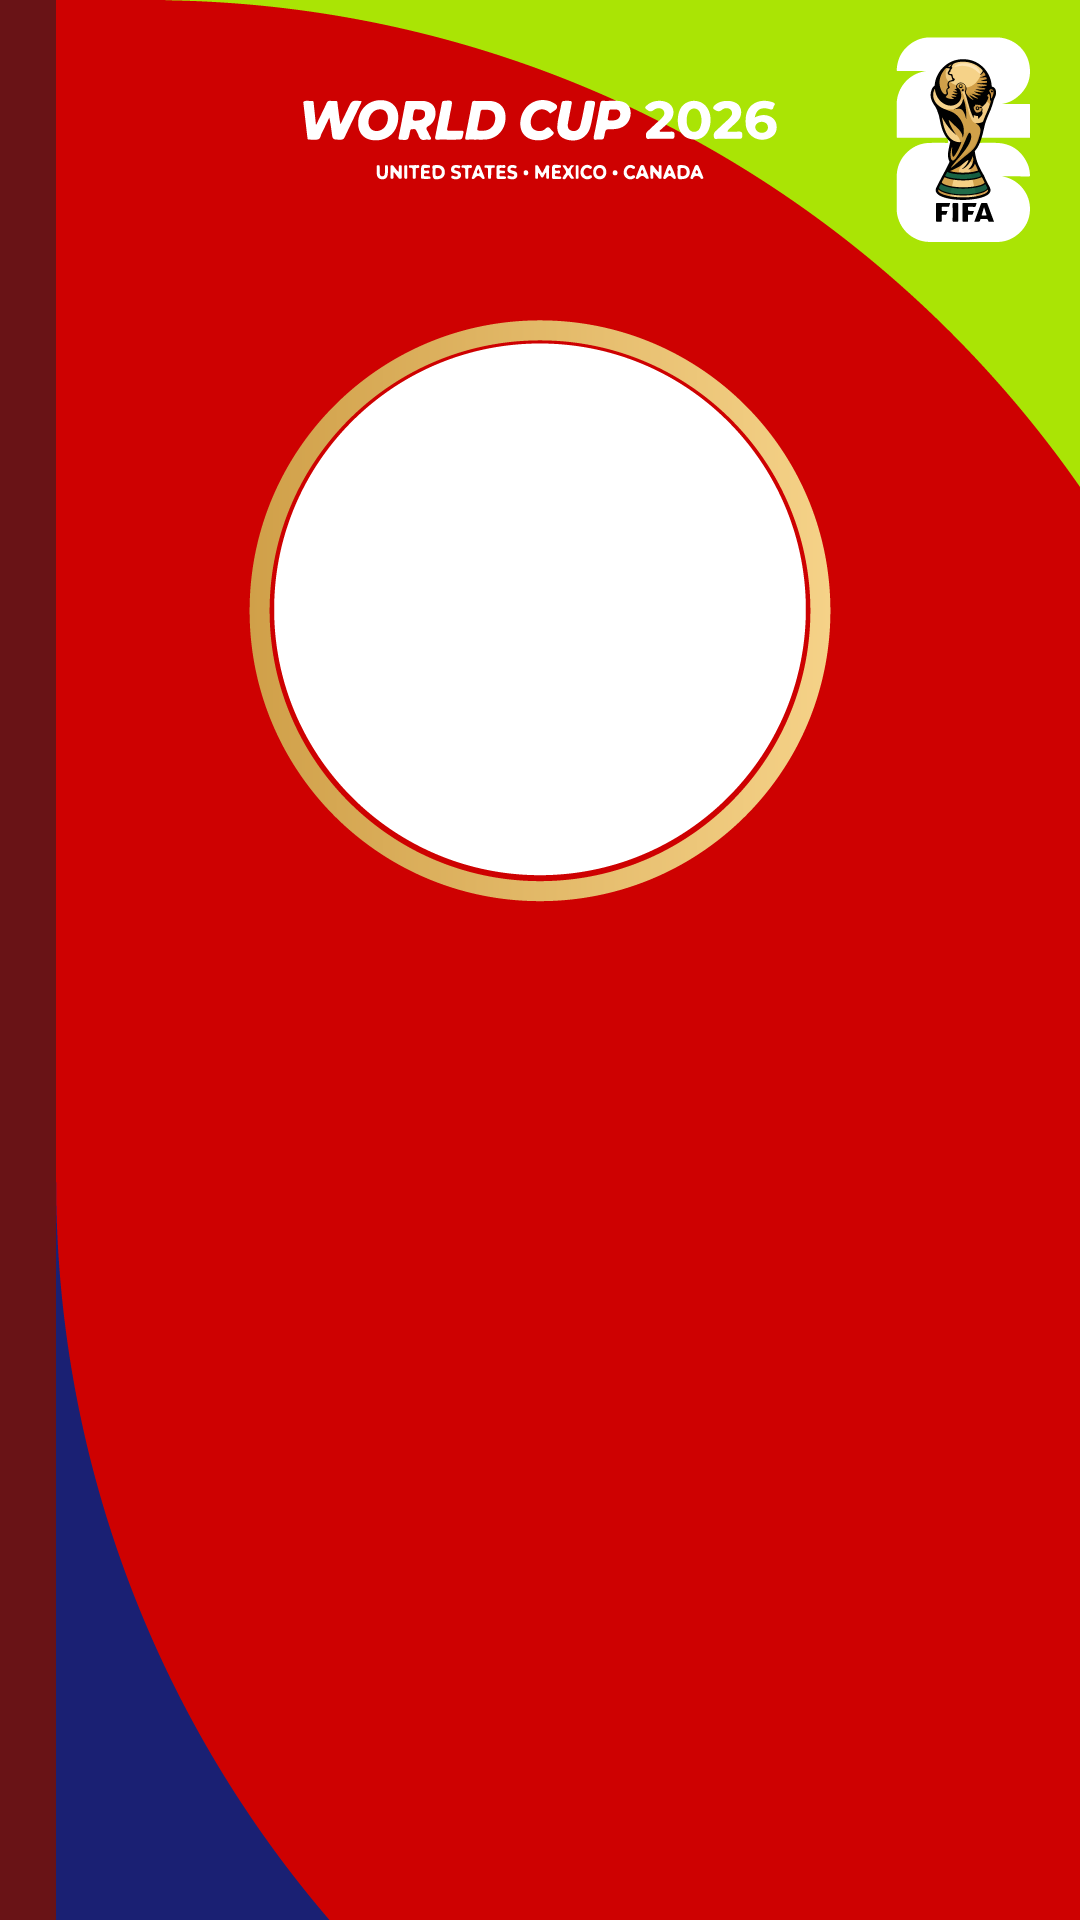
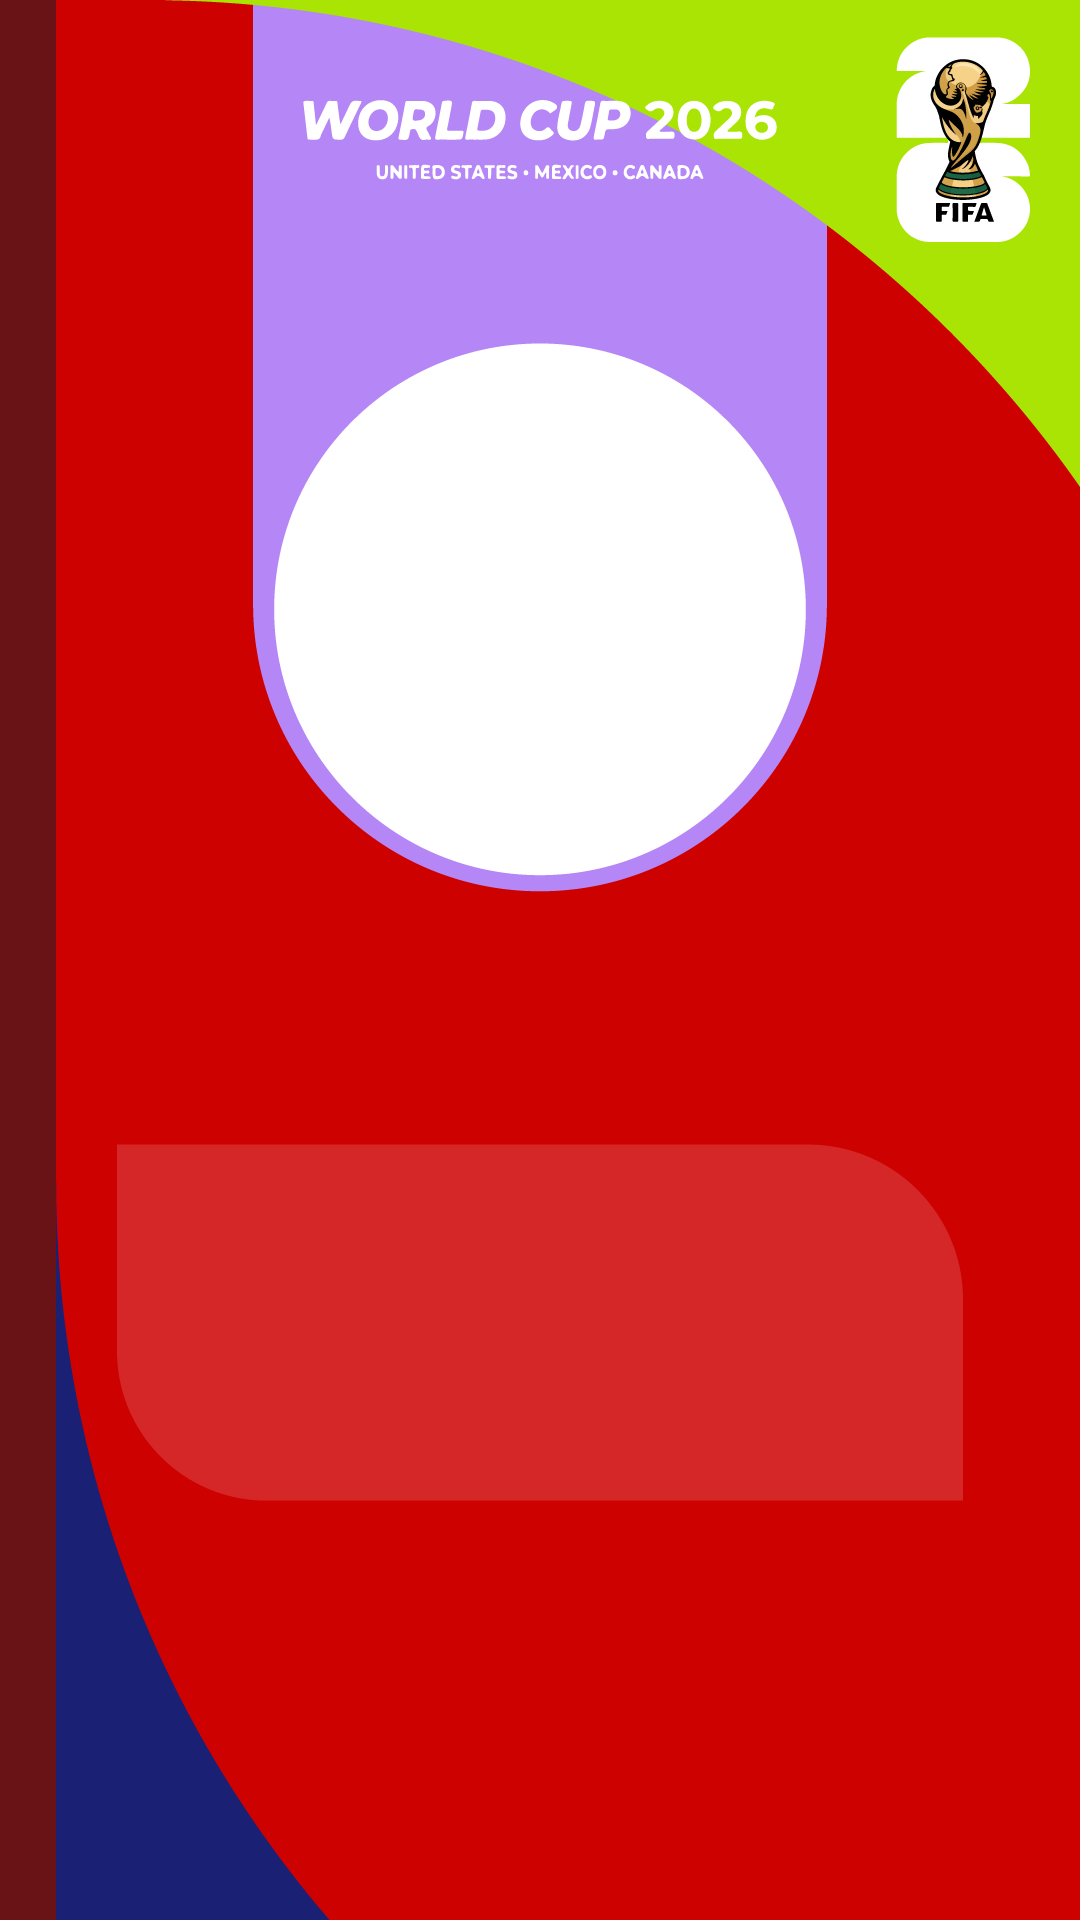
Update Friends leader poster template

Changed region(s): [[0.0917, 0.5938, 0.9167, 0.7812], [0.2139, 0.0, 0.7944, 0.4688]]

diff --git a/worldCup2026Friends/app.js b/worldCup2026Friends/app.js
@@ -2244,9 +2244,8 @@ function drawLeaderPosterStats(context, width, data) {
   const panelH = 150;
   const halfW = panelW / 2;
 
-  drawLeaderGlassPanel(context, panelX, panelY, panelW, panelH);
   context.save();
-  context.strokeStyle = "rgba(123, 16, 20, 0.26)";
+  context.strokeStyle = "rgba(255, 255, 255, 0.45)";
   context.lineWidth = 3;
   context.beginPath();
   context.moveTo(width / 2, panelY + 22);
@@ -2267,29 +2266,17 @@ function drawLeaderPosterStats(context, width, data) {
 
   const totalY = 1332;
   const totalH = 170;
-  drawLeaderGlassPanel(context, panelX, totalY, panelW, totalH);
-  drawCenteredText(context, "إجمالي النقاط", width / 2, totalY + 45, 34, "#7a1014", 900);
-  drawCenteredText(context, posterNumber(totalPoints), width / 2, totalY + 113, 74, "#f8d46d", 900);
+  drawCenteredText(context, "إجمالي النقاط", width / 2, totalY + 45, 34, "#ffffff", 900);
+  drawCenteredText(context, posterNumber(totalPoints), width / 2, totalY + 113, 74, "#ffffff", 900);
 
   drawCenteredTextFit(context, "تهانينا للمتصدر، وحظاً أوفر لباقي المتسابقين", width / 2, 1585, 38, "#ffffff", 900, 880);
   drawCenteredTextFit(context, "المنافسة مستمرة والقادم أقوى", width / 2, 1640, 34, "#f8d46d", 900, 840);
 }
 
-function drawLeaderGlassPanel(context, x, y, width, height) {
-  context.save();
-  context.fillStyle = "rgba(255, 255, 255, 0.2)";
-  context.strokeStyle = "rgba(255, 255, 255, 0.38)";
-  context.lineWidth = 3;
-  roundRectPath(context, x, y, width, height, 36);
-  context.fill();
-  context.stroke();
-  context.restore();
-}
-
 function drawLeaderMetricBlock(context, x, y, width, height, metric) {
-  drawCenteredText(context, metric.label, x + width / 2, y + 35, 25, "#7a1014", 900);
+  drawCenteredText(context, metric.label, x + width / 2, y + 35, 25, "#ffffff", 900);
   drawCenteredText(context, metric.value, x + width / 2, y + 83, 40, "#ffffff", 900);
-  drawCenteredText(context, metric.detail, x + width / 2, y + 120, 23, "#005b4f", 800);
+  drawCenteredText(context, metric.detail, x + width / 2, y + 120, 23, "#ffffff", 800);
 }
 
 function drawCenteredText(context, text, x, y, size, color, weight = 700) {

diff --git a/worldCup2026Friends/sw.js b/worldCup2026Friends/sw.js
@@ -1,4 +1,4 @@
-const CACHE_NAME = "worldcup2026friends-app-v12";
+const CACHE_NAME = "worldcup2026friends-app-v13";
 const APP_SHELL = [
   "./",
   "./index.html",